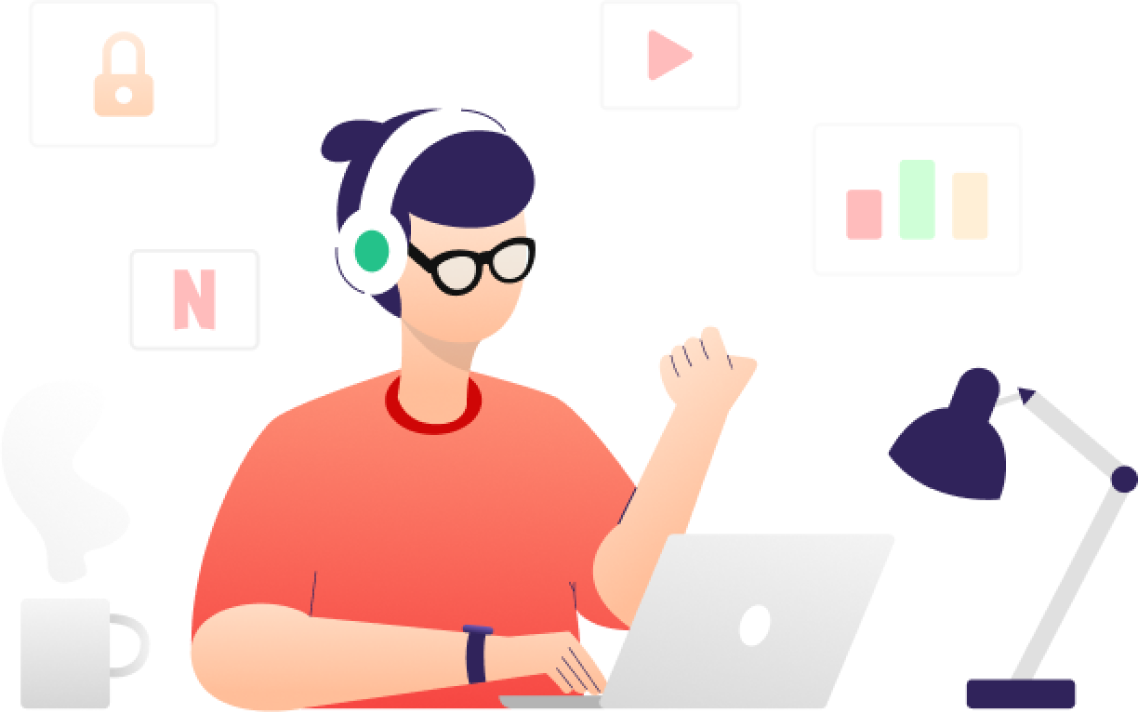
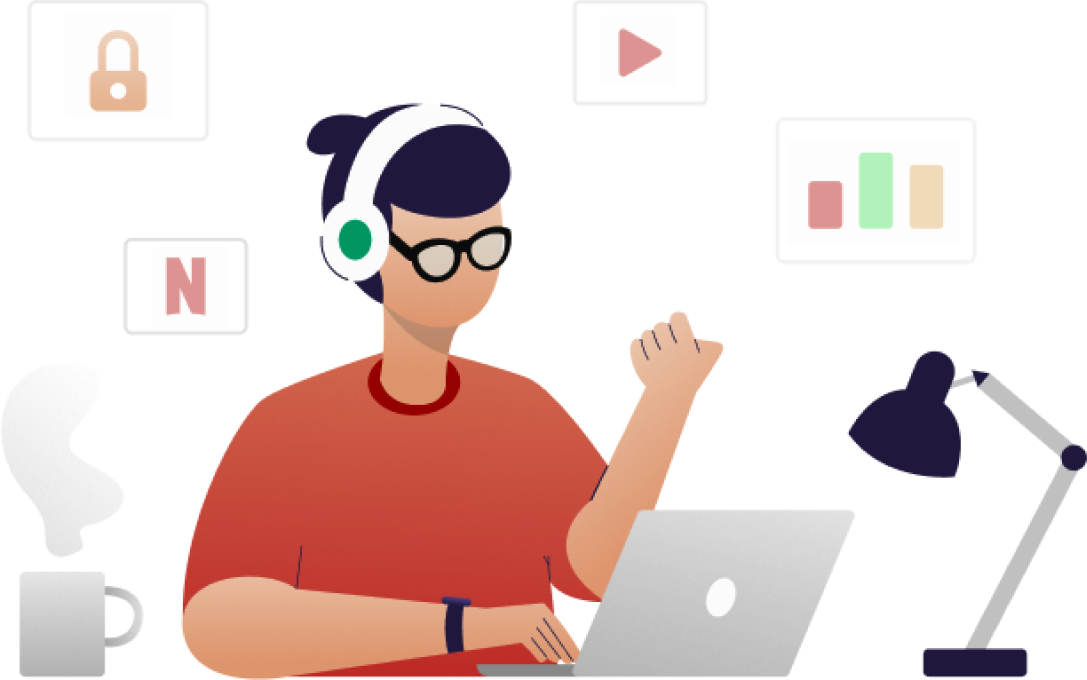
latest updates

diff --git a/src/components/SignIn.jsx b/src/components/SignIn.jsx
@@ -73,11 +73,11 @@ const SignIn = () => {
       <div className="w-full md:w-1/2 bg-white flex items-center justify-center">
         <div className="max-w-sm w-full space-y-6 p-8">
           <div className="text-center">
-            <h3 className="text-lg font-normal text-black">Study<span className="font-bold">MEISTER</span></h3>
-            <h2 className="mt-2 text-2xl font-bold text-black">Welcome back</h2>
-            <p className="mt-2 text-xs text-gray-500">Please enter your details</p>
+            <h3 className="text-xl font-normal text-black">Study<span className="font-bold">MEISTER</span></h3>
+            <h2 className="mt-3 text-2xl font-bold text-black">Welcome back</h2>
+            <p className="mt-2 text-sm text-gray-500">Please enter your details</p>
           </div>
-          <form className="mt-6 space-y-4" onSubmit={handleSubmit}>
+          <form className="mt-6 space-y-5" onSubmit={handleSubmit}>
             <input type="hidden" name="remember" value="true" />
             <div className="rounded-md shadow-sm space-y-3">
               <div>
@@ -85,21 +85,21 @@ const SignIn = () => {
                   <span className="text-black">Don't have an account? </span>
                   <span className="font-bold text-red-600">Sign up</span>
                 </Link>
-                <label htmlFor="email-address" className="block text-xs font-medium text-black mb-1">Email</label>
+                <label htmlFor="email-address" className="block text-sm font-medium text-black mb-1">Email</label>
                 <input
                   id="email-address"
                   name="email"
                   type="email"
                   autoComplete="email"
                   required
-                  className="appearance-none rounded-md relative block w-full px-2 py-1 border border-gray-300 placeholder-gray-500 text-gray-900 focus:outline-none focus:ring-indigo-500 focus:border-indigo-500 focus:z-10 text-xs"
+                  className="appearance-none rounded-md relative block w-full px-3 py-2 border border-gray-300 placeholder-gray-500 text-gray-900 focus:outline-none focus:ring-indigo-500 focus:border-indigo-500 focus:z-10 text-sm"
                   placeholder="Enter your email"
                   value={email}
                   onChange={(e) => setEmail(e.target.value)}
                 />
               </div>
               <div>
-                <label htmlFor="password" className="text-xs font-medium text-black">Password</label>
+                <label htmlFor="password" className="text-sm font-medium text-black mb-1">Password</label>
                 <div className="relative">
                   <input
                     id="password"
@@ -107,7 +107,7 @@ const SignIn = () => {
                     type={showPassword ? "text" : "password"}
                     autoComplete="current-password"
                     required
-                    className="appearance-none rounded-md relative block w-full px-2 py-1 border border-gray-300 placeholder-gray-500 text-gray-900 focus:outline-none focus:ring-indigo-500 focus:border-indigo-500 focus:z-10 text-xs pr-10"
+                    className="appearance-none rounded-md relative block w-full px-3 py-2 border border-gray-300 placeholder-gray-500 text-gray-900 focus:outline-none focus:ring-indigo-500 focus:border-indigo-500 focus:z-10 text-sm pr-10"
                     placeholder="Password"
                     value={password}
                     onChange={(e) => setPassword(e.target.value)}
@@ -127,7 +127,7 @@ const SignIn = () => {
                     id="remember-me"
                     name="remember-me"
                     type="checkbox"
-                    className="h-3 w-3 text-indigo-600 focus:ring-indigo-500 border-gray-300 rounded"
+                    className="h-4 w-4 text-indigo-600 focus:ring-indigo-500 border-gray-300 rounded"
                     checked={rememberMe}
                     onChange={(e) => setRememberMe(e.target.checked)}
                   />
@@ -146,7 +146,7 @@ const SignIn = () => {
             <div>
               <button
                 type="submit"
-                className="group relative w-full flex justify-center py-3 px-3 border border-transparent text-xs font-medium rounded-md text-white bg-[#3D5A80] hover:bg-white hover:text-[#3D5A80] hover:border-[#3D5A80] focus:outline-none focus:ring-2 focus:ring-offset-2 focus:ring-[#3D5A80] transition-colors duration-200"
+                className="group relative w-full flex justify-center py-2 px-4 border border-transparent text-sm font-medium rounded-md text-white bg-[#3D5A80] hover:bg-white hover:text-[#3D5A80] hover:border-[#3D5A80] focus:outline-none focus:ring-2 focus:ring-offset-2 focus:ring-[#3D5A80] transition-colors duration-200"
                 disabled={isLoading || isNavigating}
               >
                 {isLoading ? <Loader /> : 'Sign in'}
@@ -168,7 +168,7 @@ const SignIn = () => {
               <div>
                 <button
                   onClick={handleGoogleSignIn}
-                  className="w-full inline-flex items-center justify-center py-1 px-3 border border-gray-300 rounded-md shadow-sm bg-white text-xs font-medium text-gray-500 hover:bg-gray-50"
+                  className="w-full inline-flex items-center justify-center py-2 px-4 border border-gray-300 rounded-md shadow-sm bg-white text-xs font-medium text-gray-500 hover:bg-gray-50"
                   disabled={isLoading || isNavigating}
                 >
                   {isLoading ? <Loader /> : (
@@ -183,7 +183,7 @@ const SignIn = () => {
               <div>
                 <button
                   onClick={handleTwitterSignIn}
-                  className="w-full inline-flex items-center justify-center py-1 px-3 border border-gray-300 rounded-md shadow-sm bg-white text-xs font-medium text-gray-500 hover:bg-gray-50"
+                  className="w-full inline-flex items-center justify-center py-2 px-4 border border-gray-300 rounded-md shadow-sm bg-white text-xs font-medium text-gray-500 hover:bg-gray-50"
                   disabled={isLoading || isNavigating}
                 >
                   {isLoading ? <Loader /> : (
@@ -202,7 +202,7 @@ const SignIn = () => {
         <img
           src="/sign-inimg.png"
           alt="Sign In"
-          className="absolute inset-0 w-full h-full object-cover"
+          className="absolute inset-0 w-11/12 h-11/12 object-cover m-auto"
         />
       </div>
     </div>

diff --git a/src/components/Header.jsx b/src/components/Header.jsx
@@ -35,9 +35,9 @@ const Header = () => {
   }, []);
 
   return (
-    <header className="bg-white p-4">
-      <div className="flex items-center justify-between max-w-7xl mx-auto px-4 sm:px-6 lg:px-8">
-        <img src={"./logo.png"} alt="StudyMeister Logo" width={150} height={42} className="z-20" />
+    <header className="bg-white p-4 mb-2">
+      <div className="flex items-center justify-between mx-auto px-4 sm:px-6 lg:px-8 xl:px-12 2xl:px-16">
+        <img src={"./logo.png"} alt="StudyMeister Logo" width={150} height={42} className="z-20 ml-19" />
         <button
           className="z-20 p-2 lg:hidden"
           onClick={toggleNav}
@@ -47,31 +47,33 @@ const Header = () => {
           <div className={`w-6 h-0.5 bg-gray-600 mt-1.5 transition-all duration-300 ${isNavOpen ? 'opacity-0' : ''}`}></div>
           <div className={`w-6 h-0.5 bg-gray-600 mt-1.5 transition-all duration-300 ${isNavOpen ? '-rotate-45 -translate-y-1.5' : ''}`}></div>
         </button>
-        <nav className={`fixed inset-0 z-10 bg-white transform transition-transform duration-300 ease-in-out ${isNavOpen ? 'translate-x-0' : 'translate-x-full'} lg:relative lg:inset-auto lg:transform-none lg:transition-none lg:flex lg:items-center`}>
-          <div className="flex flex-col lg:flex-row items-center justify-center h-full space-y-4 lg:space-y-0 lg:space-x-4 text-md font-rubik">
-            <div className="lg:pr-48 flex flex-col lg:flex-row items-center space-y-4 lg:space-y-0 lg:space-x-16">
-              <a href="#pricing" className="text-[#2B2B2B] hover:text-gray-900 relative group inline-block">
+        <nav className={`fixed inset-0 z-10 bg-white transform transition-transform duration-300 ease-in-out ${isNavOpen ? 'translate-x-0' : 'translate-x-full'} lg:relative lg:inset-auto lg:transform-none lg:transition-none lg:flex lg:items-center lg:justify-end lg:flex-1`}>
+          <div className="flex flex-col lg:flex-row items-center justify-center h-full space-y-4 lg:space-y-0 lg:space-x-6 xl:space-x-8 2xl:space-x-12 text-md font-rubik">
+            <div className="lg:flex lg:items-center lg:space-x-6 xl:space-x-8 2xl:space-x-12">
+              <a href="#pricing" className="text-[#2B2B2B] hover:text-gray-900 relative group inline-block pl-4 font-semibold">
                 <span className="relative">Pricing</span>
                 <span className="absolute bottom-0 left-0 w-full h-0.5 bg-[#E16741] transform scale-x-0 group-hover:scale-x-100 transition-transform duration-300"></span>
               </a>
-              <a href="#testimonials" className="text-[#2B2B2B] hover:text-gray-900 relative group inline-block">
+              <a href="#testimonials" className="text-[#2B2B2B] hover:text-gray-900 relative group inline-block pl-4 font-semibold">
                 <span className="relative">Testimonial</span>
                 <span className="absolute bottom-0 left-0 w-full h-0.5 bg-[#E16741] transform scale-x-0 group-hover:scale-x-100 transition-transform duration-300"></span>
               </a>
-              <a href="#help" className="text-[#2B2B2B] hover:text-gray-900 relative group inline-block">
+              <a href="#help" className="text-[#2B2B2B] hover:text-gray-900 relative group inline-block pl-4 font-semibold">
                 <span className="relative">Help</span>
                 <span className="absolute bottom-0 left-0 w-full h-0.5 bg-[#E16741] transform scale-x-0 group-hover:scale-x-100 transition-transform duration-300"></span>
               </a>
             </div>
-            <Link to="/signin" className="text-[#2B2B2B] hover:text-gray-900 relative group inline-block">
-              <span className="relative">Sign in</span>
-              <span className="absolute bottom-0 left-0 w-full h-0.5 bg-[#E16741] transform scale-x-0 group-hover:scale-x-100 transition-transform duration-300"></span>
-            </Link>
-            <Link to="signup" className="px-4 py-2 font-semibold text-[#E16741] bg-white 
-                  border border-[#E16741] rounded-lg hover:bg-[#E16741] hover:text-white 
-                  transition-colors duration-300">
-              Sign up
-            </Link>
+            <div className="lg:flex lg:items-center lg:space-x-4 xl:space-x-6 2xl:space-x-8">
+              <Link to="/signin" className="text-[#2B2B2B] hover:text-gray-900 relative group inline-block pl-4 font-semibold">
+                <span className="relative">Login</span>
+                <span className="absolute bottom-0 left-0 w-full h-0.5 bg-[#E16741] transform scale-x-0 group-hover:scale-x-100 transition-transform duration-300"></span>
+              </Link>
+              <Link to="signup" className="px-4 py-1 font-semibold text-[#E16741] bg-white 
+                    border border-[#E16741] rounded-lg hover:bg-[#E16741] hover:text-white 
+                    transition-colors duration-300">
+                Sign up
+              </Link>
+            </div>
           </div>
         </nav>
       </div>

diff --git a/src/components/FeatureStats.jsx b/src/components/FeatureStats.jsx
@@ -13,7 +13,6 @@ const FeatureStats = () => {
       }));
     }, 100);
 
-    // Set isVisible to true after a short delay to trigger the animation
     setTimeout(() => setIsVisible(true), 100);
 
     return () => clearInterval(interval);
@@ -21,32 +20,32 @@ const FeatureStats = () => {
 
   return (
     <div
-      className={`p-4 sm:p-8 md:p-12 bg-white text-center rounded-[3px] w-full transition-all duration-600 ease-out ${
+      className={`p-2 sm:p-4 md:p-6 bg-white text-center rounded-[3px] w-full transition-all duration-600 ease-out ${
         isVisible ? 'opacity-100 transform translate-y-0' : 'opacity-0 transform translate-y-16'
       }`}
     >
-      <div className="max-w-4xl mx-auto grid grid-cols-1 sm:grid-cols-2 md:grid-cols-3 gap-8 rounded-[3px] shadow-[4px_4px_8px_rgba(174,174,174,0.5)] py-6 sm:py-8 md:py-10 hover:shadow-[8px_8px_16px_rgba(174,174,174,0.8)] transition-shadow duration-300">
-        <div className="flex flex-col sm:flex-row items-center justify-center relative pb-4 sm:pb-0 sm:pr-4 md:pr-8">
-          <img src="./featurestats1.png" alt="Users" className="w-12 h-12 mb-2 sm:mb-0 sm:mr-4" />
+      <div className="max-w-3xl mx-auto grid grid-cols-1 sm:grid-cols-2 md:grid-cols-3 gap-4 rounded-[3px] shadow-[2px_2px_4px_rgba(174,174,174,0.5)] py-3 sm:py-4 md:py-5 hover:shadow-[4px_4px_8px_rgba(174,174,174,0.8)] transition-shadow duration-300">
+        <div className="flex flex-col sm:flex-row items-center justify-center relative pb-2 sm:pb-0 sm:pr-2 md:pr-4">
+          <img src="./featurestats1.png" alt="Users" className="w-8 h-8 mb-1 sm:mb-0 sm:mr-2" />
           <div>
-            <h2 className="text-xl sm:text-2xl font-bold text-gray-800">{counts.users.toLocaleString()}+</h2>
-            <p className="text-gray-500">Users</p>
+            <h2 className="text-lg sm:text-xl font-bold text-gray-800">{counts.users.toLocaleString()}+</h2>
+            <p className="text-sm text-gray-500">Users</p>
           </div>
-          <div className="hidden sm:block absolute right-0 top-1/2 transform -translate-y-1/2 w-px h-3/4 bg-[#3D5A80]"></div>
+          <div className="hidden sm:block absolute right-0 top-1/2 transform -translate-y-1/2 w-px h-2/3 bg-[#3D5A80]"></div>
         </div>
-        <div className="flex flex-col sm:flex-row items-center justify-center relative pb-4 sm:pb-0 sm:pr-4 md:pr-8">
-          <img src="./featurestats2.png" alt="Servers" className="w-12 h-12 mb-2 sm:mb-0 sm:mr-4" />
+        <div className="flex flex-col sm:flex-row items-center justify-center relative pb-2 sm:pb-0 sm:pr-2 md:pr-4">
+          <img src="./featurestats2.png" alt="Servers" className="w-8 h-8 mb-1 sm:mb-0 sm:mr-2" />
           <div>
-            <h2 className="text-xl sm:text-2xl font-bold text-gray-800">{counts.servers}+</h2>
-            <p className="text-gray-500">Servers</p>
+            <h2 className="text-lg sm:text-xl font-bold text-gray-800">{counts.servers}+</h2>
+            <p className="text-sm text-gray-500">Servers</p>
           </div>
-          <div className="hidden md:block absolute right-0 top-1/2 transform -translate-y-1/2 w-px h-3/4 bg-[#3D5A80]"></div>
+          <div className="hidden md:block absolute right-0 top-1/2 transform -translate-y-1/2 w-px h-2/3 bg-[#3D5A80]"></div>
         </div>
         <div className="flex flex-col sm:flex-row items-center justify-center">
-          <img src="./featurestats3.png" alt="Articles" className="w-12 h-12 mb-2 sm:mb-0 sm:mr-4" />
+          <img src="./featurestats3.png" alt="Articles" className="w-8 h-8 mb-1 sm:mb-0 sm:mr-2" />
           <div>
-            <h2 className="text-xl sm:text-2xl font-bold text-gray-800">{(counts.articles / 1000000).toFixed(1)}M+</h2>
-            <p className="text-gray-500">Published Articles</p>
+            <h2 className="text-lg sm:text-xl font-bold text-gray-800">{(counts.articles / 1000000).toFixed(1)}M+</h2>
+            <p className="text-sm text-gray-500">Published Articles</p>
           </div>
         </div>
       </div>

diff --git a/src/components/Footer.jsx b/src/components/Footer.jsx
@@ -6,19 +6,19 @@ const Footer = () => {
       <div className="container mx-auto px-4">
         <div className="flex flex-wrap justify-between items-start md:ml-[120px]">
           <div className="w-full md:w-1/4 mb-8 md:mb-0">
-            <img src="./logo.png" alt="Company Logo" className="mb-4 mt-6 w-24 h-auto" />
+            <img src="./logo.png" alt="Company Logo" className="mb-4 mt-6 w-32 h-auto" />
             <p className="text-gray-600 mb-4 text-sm">
               Lorem ipsum dolor sit amet consectetur. Quis tortor gravida nibh arcu id purus ullamcorper. Vel vel erat semper augue.
             </p>
-            <div className="flex space-x-3">
-              <img src="/facebook-icon.png" alt="Facebook" className="w-5 h-5" />
-              <img src="/whatsapp-icon.png" alt="Twitter" className="w-5 h-5" />
-              <img src="/youtube-icon.png" alt="Instagram" className="w-5 h-5" />
+            <div className="flex space-x-4">
+              <img src="/facebook-icon.png" alt="Facebook" className="w-6 h-6" />
+              <img src="/whatsapp-icon.png" alt="Twitter" className="w-6 h-6" />
+              <img src="/youtube-icon.png" alt="Instagram" className="w-6 h-6" />
             </div>
           </div>
           
           <div className="w-full sm:w-1/2 md:w-1/4 mb-8 md:mb-0 md:pl-40">
-            <h3 className="text-base font-semibold mb-2">Features</h3>
+            <h3 className="text-base font-bold mb-2">Features</h3>
             <ul className="text-gray-600 text-sm">
               <li className="mb-2">Features</li>
               <li className="mb-2">Pricing</li>
@@ -27,7 +27,7 @@ const Footer = () => {
             </ul>
           </div>
           <div className="w-full sm:w-1/2 md:w-1/4 mb-8 md:mb-0 md:pl-20">
-            <h3 className="text-base font-semibold mb-2">Engage</h3>
+            <h3 className="text-base font-bold mb-2">Engage</h3>
             <ul className="text-gray-600 text-sm">
               <li className="mb-2">FAQ</li>
               <li className="mb-2">Tutorials</li>
@@ -37,7 +37,7 @@ const Footer = () => {
             </ul>
           </div>
           <div className="w-full sm:w-1/2 md:w-1/4 mb-8 md:mb-0">
-            <h3 className="text-base font-semibold mb-2">Earn money</h3>
+            <h3 className="text-base font-bold mb-2">Earn money</h3>
             <ul className="text-gray-600 text-sm">
               <li className="mb-2">Become partner</li>
               <li className="mb-2">Affiliate</li>

diff --git a/src/components/Hero.jsx b/src/components/Hero.jsx
@@ -24,18 +24,18 @@ const Hero = () => {
   }, []);
 
   return (
-    <section className="p-4 sm:p-8 md:p-16 bg-white flex flex-col md:flex-row justify-between items-center mt-8 font-rubik">
-      <div ref={textRef} className="text-left w-full md:w-1/2 mb-8 md:mb-0 md:mr-8">
+    <section className="p-4 sm:p-8 md:p-16 bg-white flex flex-col md:flex-row justify-between items-center mt-2 font-rubik">
+      <div ref={textRef} className="text-left w-full md:w-1/2 mb-8 md:mb-0 md:mr-2 md:ml-24">
         <h1 className="text-3xl sm:text-4xl text-gray-800">
-          <span className="font-normal">Write articles quickly <br /> with Study</span>
+          <span className="font-normal">Write articles quickly with Study</span>
           <span className="font-bold">MEISTER</span>
         </h1>
         <p className="mt-4 sm:mt-6 text-gray-500">
-          Lorem ipsum dolor sit amet consectetur. Dui tortor gravida nibh arcu id <br /> purus et loremque. Nulla sed semper augue.
+          Lorem ipsum dolor sit amet consectetur. Dui tortor gravida <br />nibh arcu id  purus et loremque. Nulla sed semper augue.
         </p>
         <button className="w-full sm:w-auto px-6 sm:px-10 py-2 mt-6 sm:mt-8 text-white bg-[#3D5A80] rounded-[3px] hover:bg-white hover:text-[#3D5A80] border-2 border-[#3D5A80] transition-colors duration-300 ease-in-out">Try it now!</button>
       </div>
-      <div ref={imgRef} className="w-full md:w-1/2">
+      <div ref={imgRef} className="w-full md:w-1/2 md:mr-16">
         <img src="./heroimg.png" alt="StudyMEISTER" className="w-full h-auto" />
       </div>
     </section>

diff --git a/src/components/Subscribe.jsx b/src/components/Subscribe.jsx
@@ -27,7 +27,7 @@ const Subscribe = () => {
           <div className="w-full md:w-1/2">
             <div className="flex flex-col sm:flex-row w-full">
               <input type="email" placeholder="Your email" className="py-3 px-2 w-full sm:w-3/5 mb-2 sm:mb-0 border border-gray-300 rounded-lg focus:outline-none focus:ring-2 focus:ring-gray-400 focus:border-transparent" />
-              <button className="p-3 w-full sm:w-2/5 rounded-lg bg-[#3D5A80] text-white sm:ml-2 hover:bg-white hover:text-[#3D5A80] hover:border-2 hover:border-[#3D5A80] transition-colors duration-300 focus:outline-none focus:ring-2 focus:ring-gray-400">Subscribe</button>
+              <button className="p-3 w-full sm:w-2/5 rounded-[3px] bg-[#3D5A80] text-white sm:ml-2 hover:bg-white hover:text-[#3D5A80] hover:border-2 hover:border-[#3D5A80] transition-colors duration-300 focus:outline-none focus:ring-2 focus:ring-gray-400">Subscribe</button>
             </div>
           </div>
         </div>

diff --git a/src/index.css b/src/index.css
@@ -49,3 +49,25 @@
   -ms-overflow-style: none;  /* IE and Edge */
   scrollbar-width: none;  /* Firefox */
 }
+
+body {
+  @apply antialiased text-gray-900;
+}
+
+.max-w-screen-content {
+  max-width: 1440px;
+  margin-left: auto;
+  margin-right: auto;
+}
+
+@media (min-width: 1921px) {
+  html {
+    font-size: 18px;
+  }
+}
+
+@media (min-width: 2561px) {
+  html {
+    font-size: 20px;
+  }
+}
